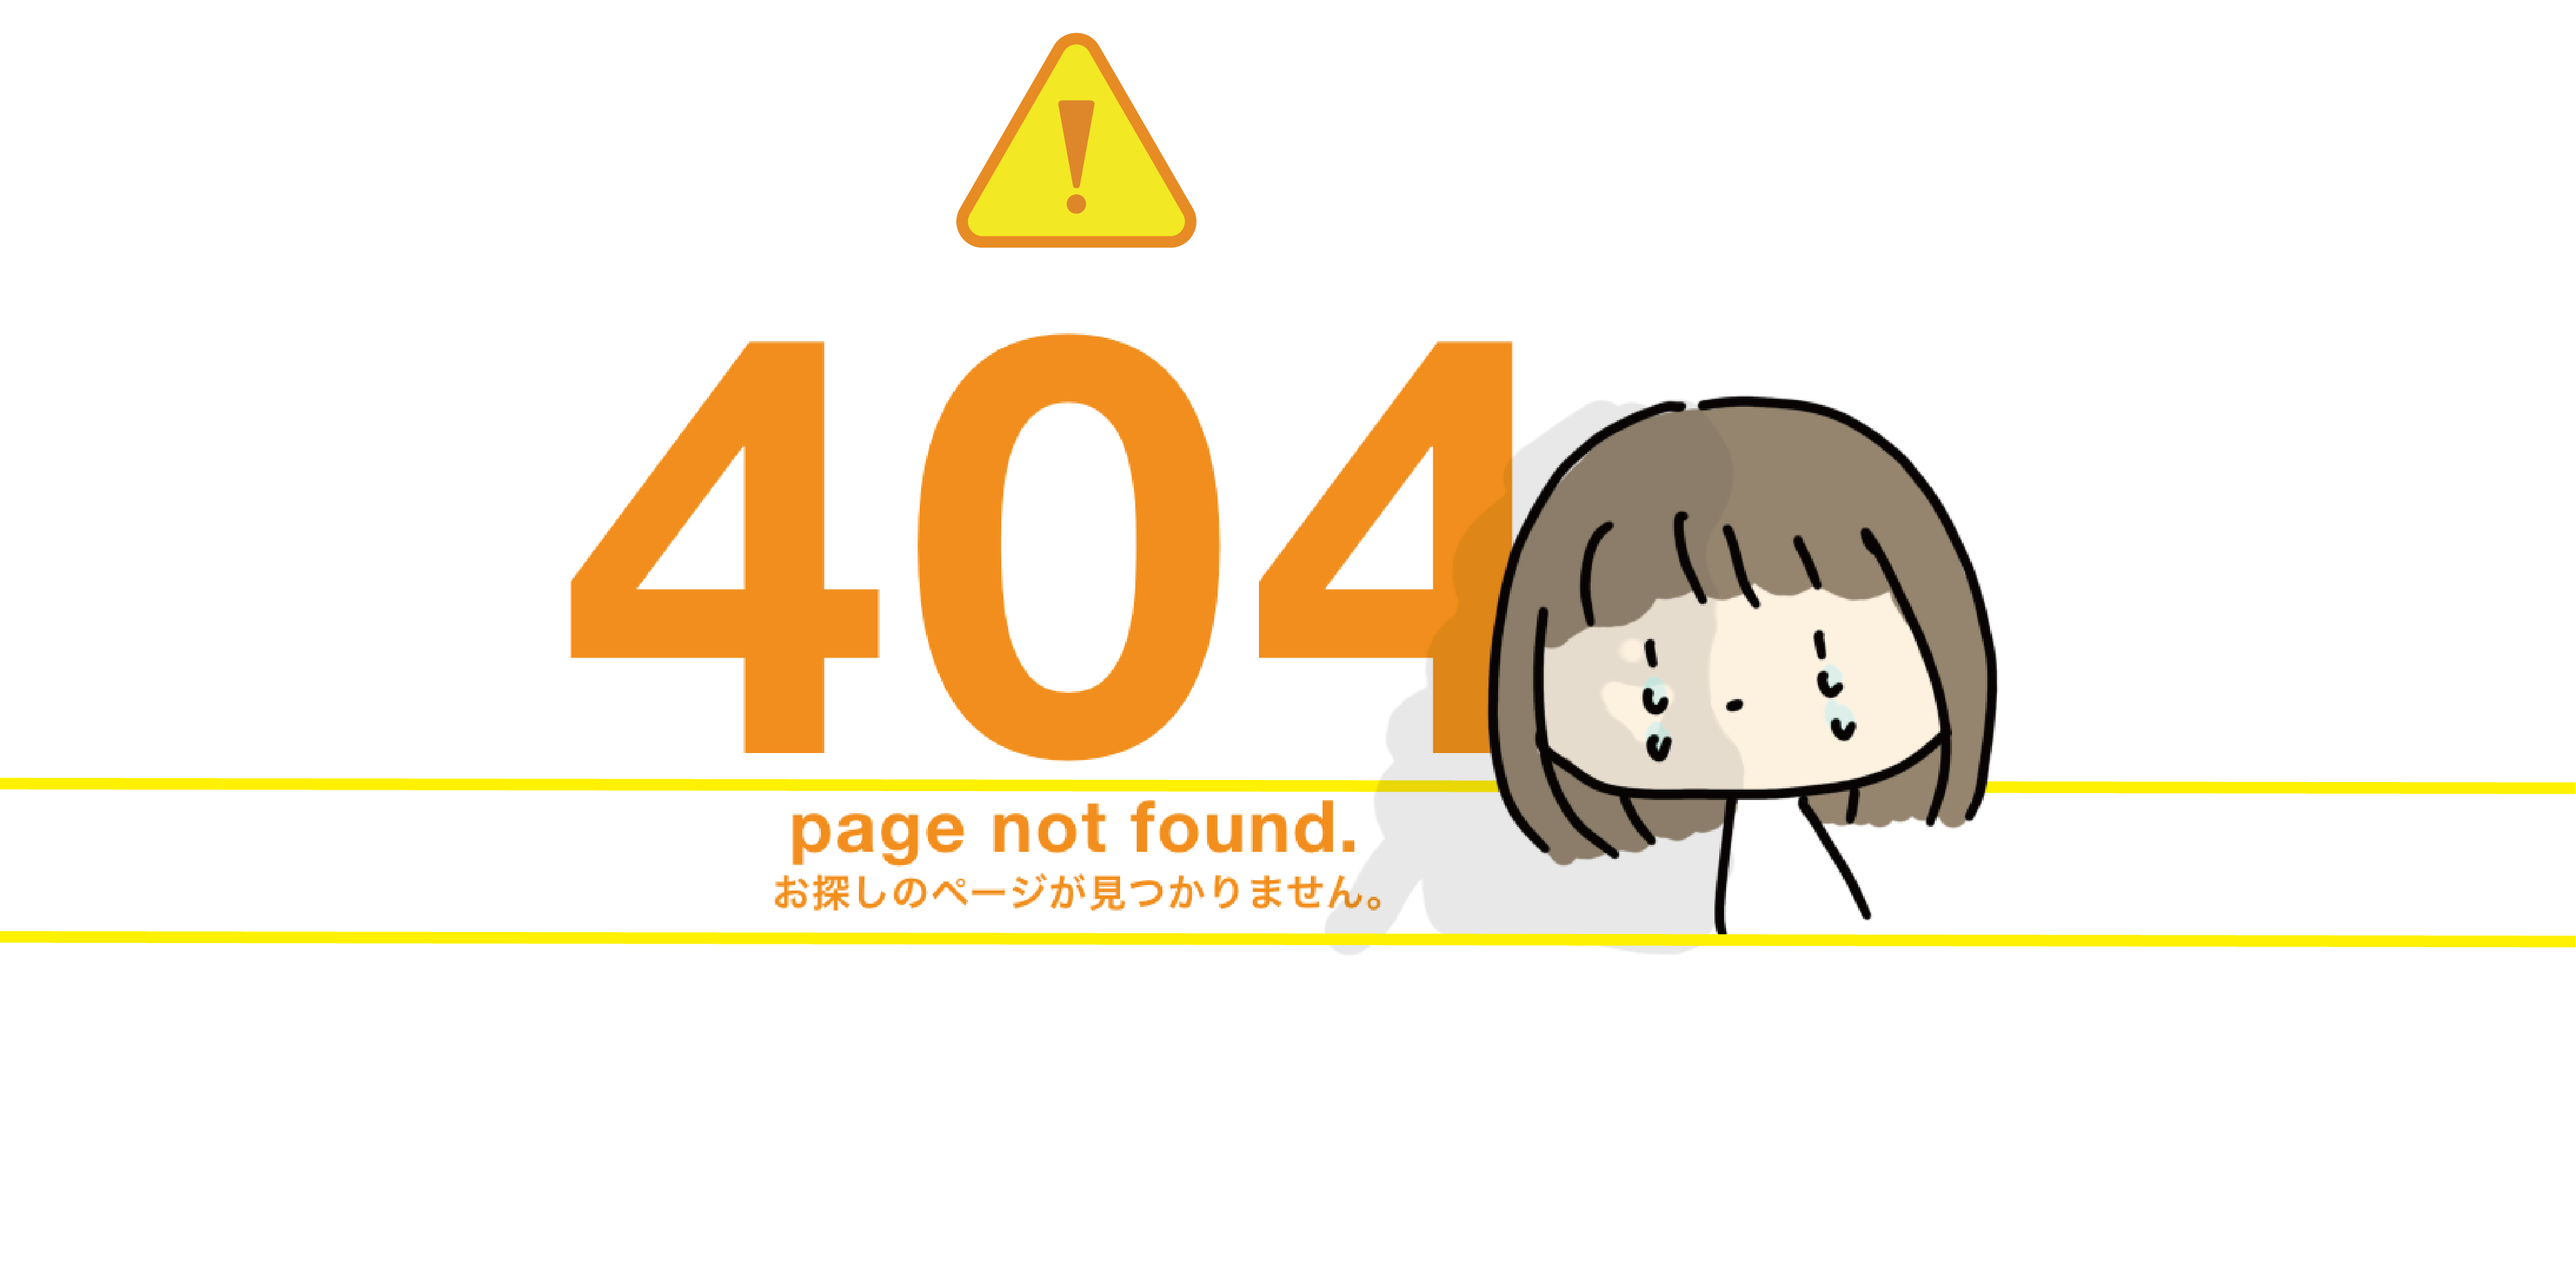
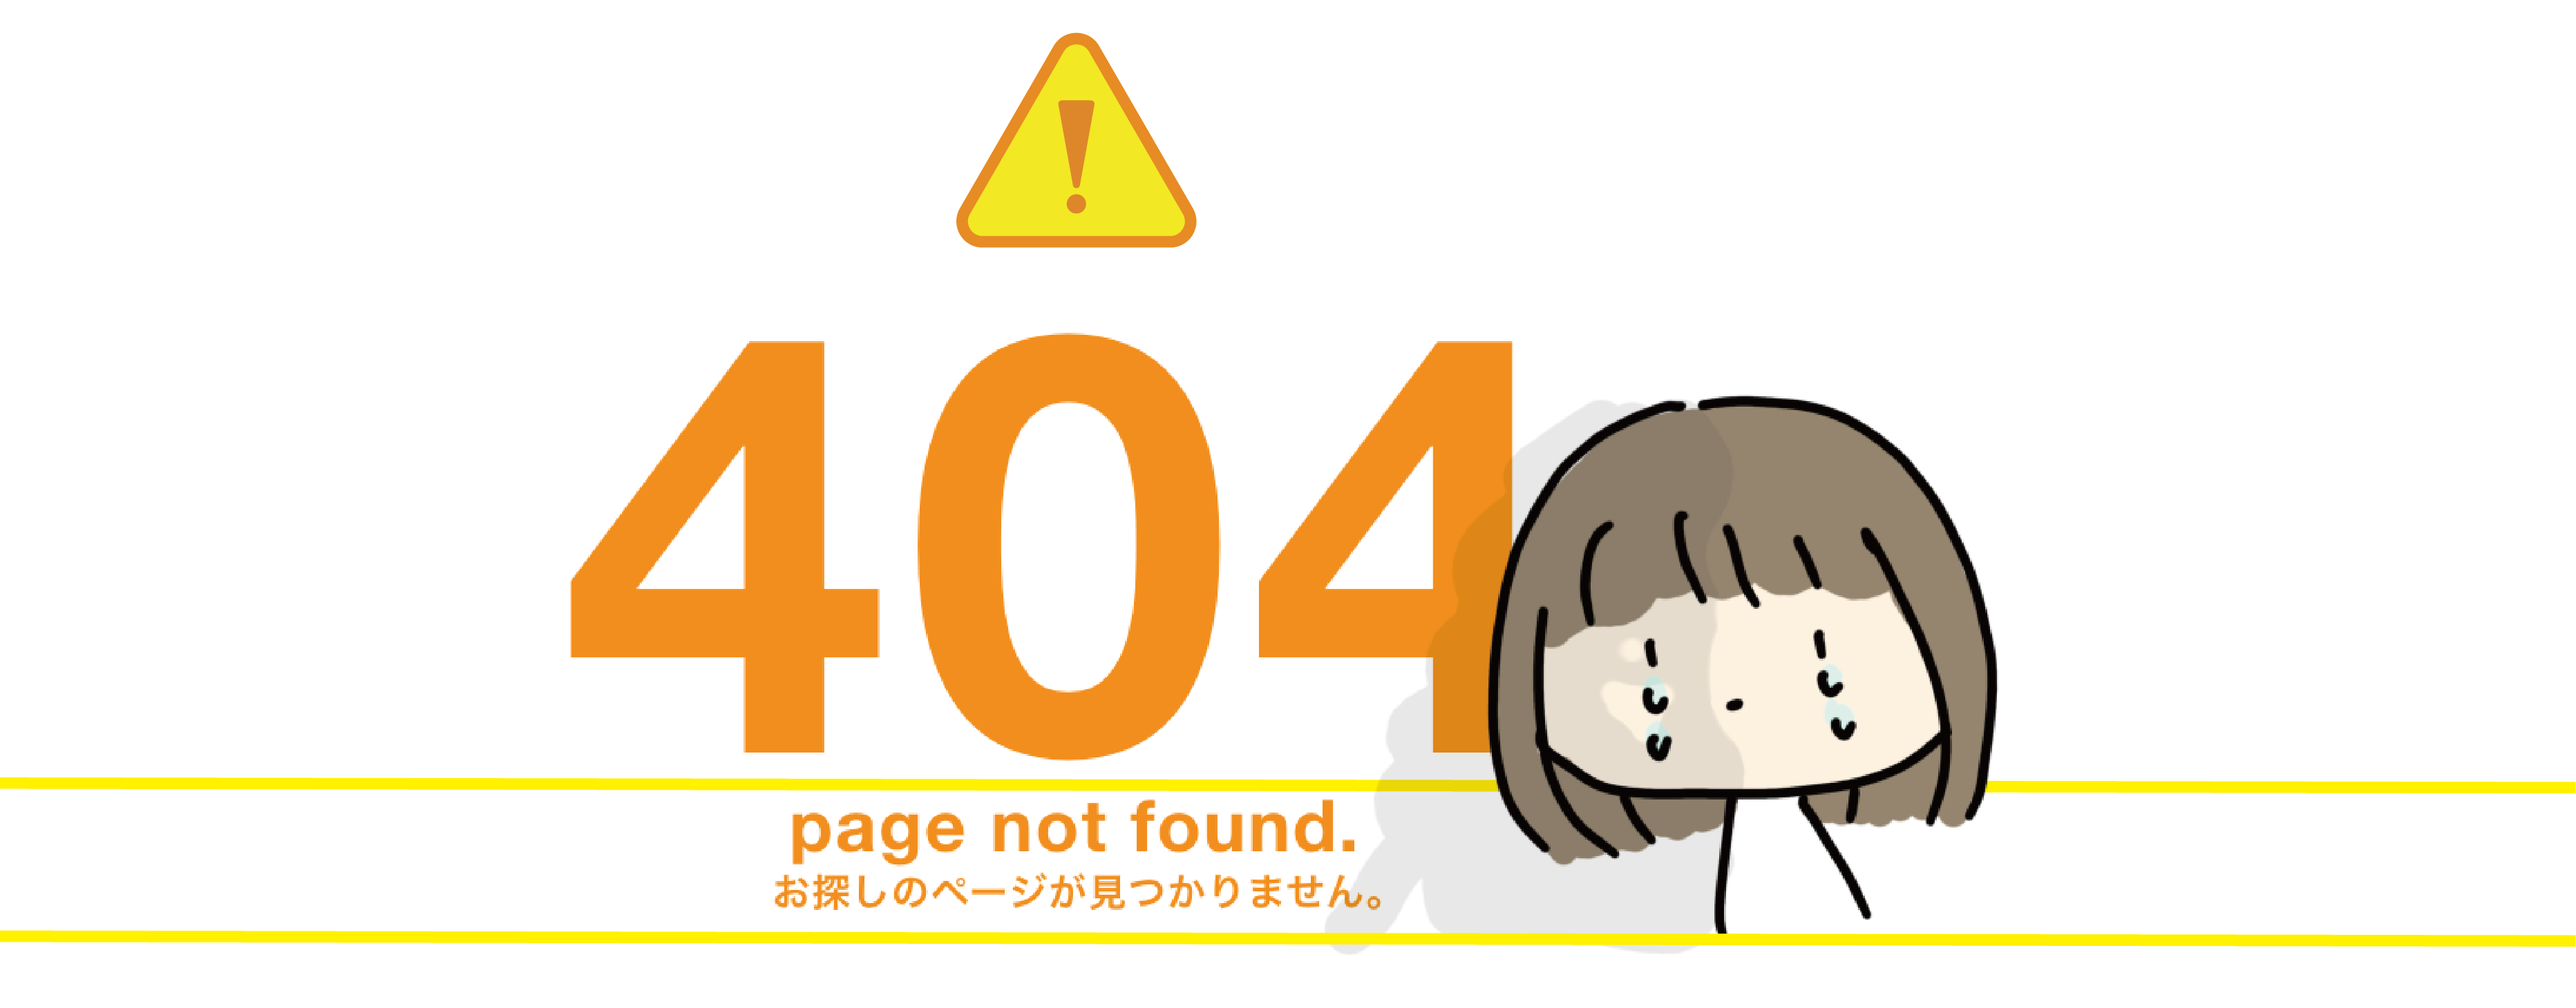
not-foundページの修正

Changed region(s): [[0.0, 0.0308, 1.0, 0.9555], [0.7157, 0.863, 0.7468, 0.8938]]

diff --git a/src/pages/404.tsx b/src/pages/404.tsx
@@ -1,6 +1,6 @@
 import Image from "next/image";
 import React from "react";
-import styles from "./index.module.scss";
+import styles from "./404.module.scss";
 export default function Custom404() {
   return (
     <main className={styles.container}>
@@ -8,7 +8,7 @@ export default function Custom404() {
         className={styles.img404}
         src="/404.png"
         alt="お探しのページが見つかりません"
-        width={1280 + 160}
+        width={1280}
         height={300}
       />
     </main>

diff --git a/src/pages/404.module.scss b/src/pages/404.module.scss
@@ -1,0 +1,15 @@
+@use "@/styles/variables" as *;
+
+.container {
+  display: flex;
+  justify-content: center;
+  align-items: center;
+  height: calc(100vh - 58px - 221px); // 58px: header height, 221px: footer height
+  @media screen and (max-width: $mobile) {
+    height: calc(100vh - 58px - 278px); // 58px: header height, 278px: footer height
+  }
+}
+
+.img404 {
+  max-width: 1200px;
+}
